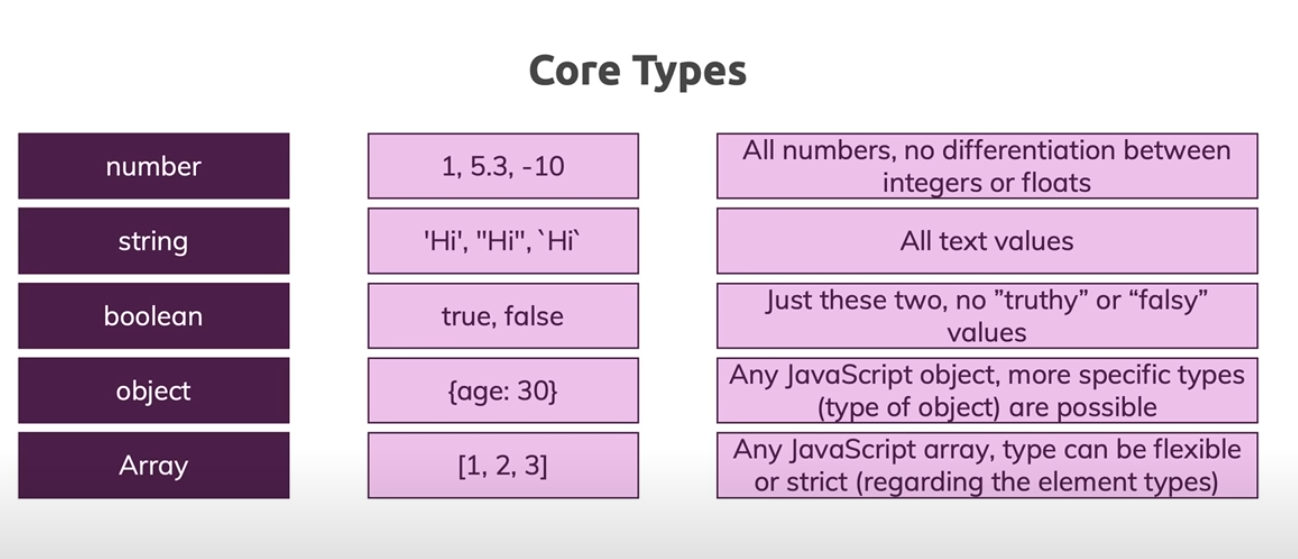
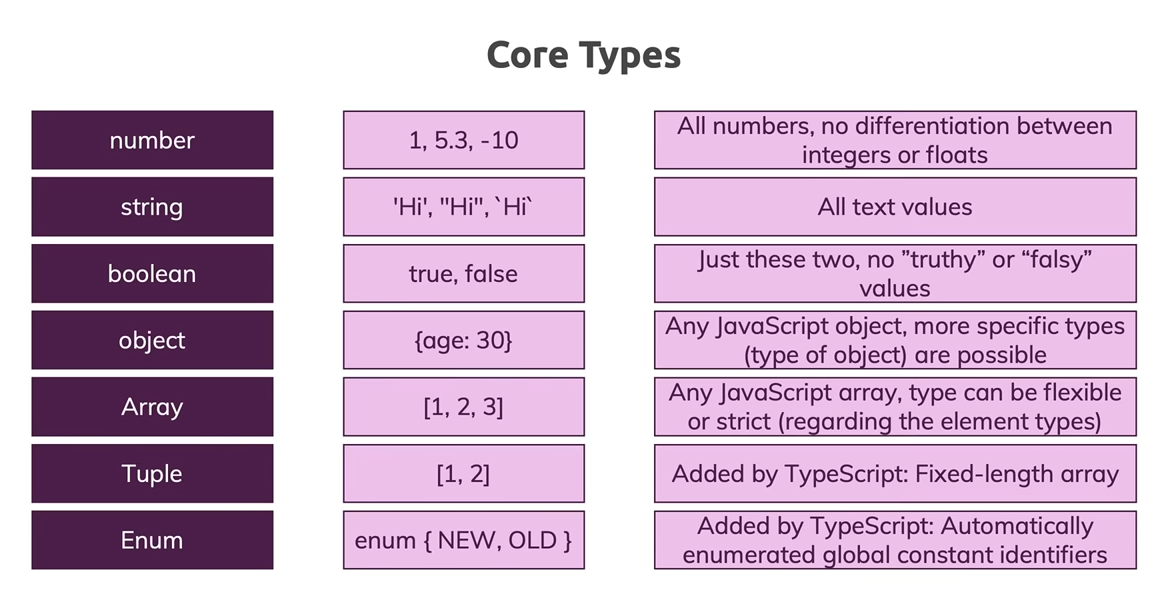
modificando imagen de Type core

diff --git a/README.md b/README.md
@@ -189,6 +189,8 @@ esto sería una mala praxis porque el core types de TS tiene una función que se
 
 ## Core Types
 
+![Not Found](images/img-10.png)
+
 - ### Number
 - ### Strings
 - ### Booleans
